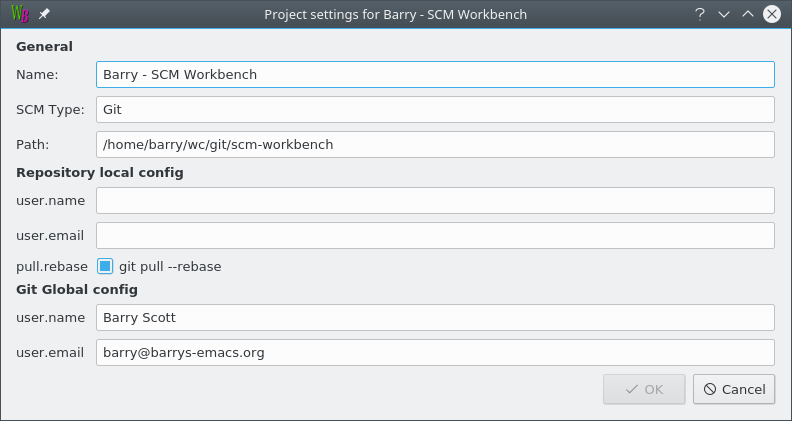
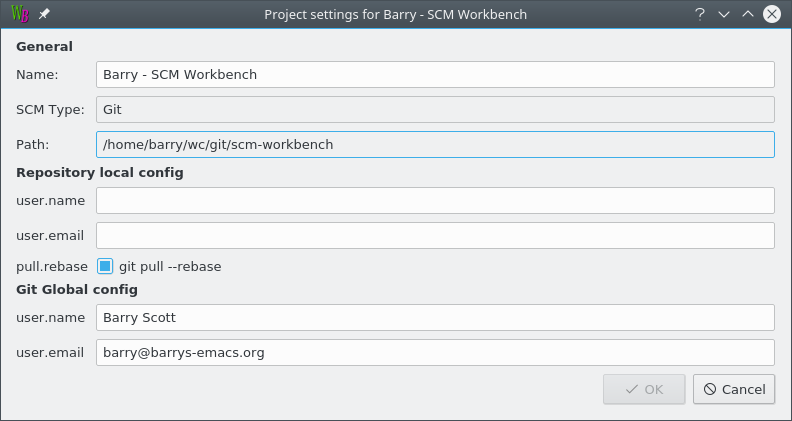
Add commit history documentation
add new screen shots to reflect project settings visual changes

make right-margin a bit wider

Changed region(s): [[0.1212, 0.3088, 0.1515, 0.3397], [0.1212, 0.1853, 0.1515, 0.2162]]

diff --git a/Docs/scm-workbench-git.html b/Docs/scm-workbench-git.html
@@ -34,6 +34,16 @@
     <figcaption>Git Project Settings</figcaption>
 </figure>
 
+<h3>Name</h3>
+
+<p>The name of the project can be changed by editing the "Name" field.
+You must pick a name that is not in use by another project.</p>
+
+<h3>Name and Email address for commits</h3>
+
+<p>Git needs your name and email address for each commit you make.</p>
+<p>The Git Global config user.name and user.email is used unless
+overridden by the Repository local config user.name and user.email.</p>
 
 <h2><a name="menus">Git Menus</a></h2>
 
@@ -62,6 +72,8 @@
     <tr><td><hr /></td></tr>
     <tr><td><a href="#git_action_rename">Rename…</a></td></tr>
     <tr><td><a href="#git_action_delete">Delete…</a></td></tr>
+    <tr><td><hr /></td></tr>
+    <tr><td><a href="#git_action_commit">Commit</a></td></tr>
     <tr><td><hr /></td></tr>
     <tr><td><a href="#git_action_push">Push</a></td></tr>
     <tr><td><a href="#git_action_pull">Pull</a></td></tr>
@@ -132,17 +144,47 @@ Select a log message to display the full log message and the changed paths.
 </p>
 
 <figure>
-    <img src="scm-workbench_files/wb_git_commit_log_window.png" />
-    <figcaption>Commit log Window</figcaption>
+    <img src="scm-workbench_files/wb_git_commit_history_window.png" />
+    <figcaption>Commit History Window</figcaption>
 </figure>
 
-<p>By selecting a single revision you can click the Diff button to view the
-differences between your copy of the file and the choosen revision.
+<h5>Exploring the history</h5>
+
+<p>By selecting a single commit you can click the Diff button to view the
+differences between your copy of the file and the choosen commit.
 </p>
 
-<p>By selecting two revisions you can click the Diff button to view the differences
-between the pair of selected revisitions.
+<p>By selecting two commits you can click the Diff button to view the differences
+between the pair of selected commits.
 </p>
+
+<p>By selecting a file in the CHanged Files list you can click the Diff button
+to show the differences in that one file for the selected commit.</p>
+
+<h5>Rebasing the commit history</h5>
+
+<p>Unpushed commits are drawing in <span style="color: rbg( 192, 0, 192 )">purple</span> and may be rebased.</p>
+
+<p>The rebase options are availble from the context menu (right-click menu).</p>
+
+<p>There are three rebase operations supported:</p>
+<ul>
+<li>Reword commit message - select one unpushed commit and choose this option.</li>
+<li>Squash commits together - select two or more consequtice commits and choose this option.</li>
+<li>Drop commit - select unpushed commits and choose this option.</li>
+</ul>
+
+<p>The Rebase dialog shows the rebase commands that will be executed.</p>
+
+<figure>
+    <img src="scm-workbench_files/wb_git_rebase_reword_dialog.png" />
+    <figcaption>Rebase reword dialog</figcaption>
+</figure>
+
+<p>For the Reword and Squash options a new commit message can be edited.</p>
+
+<p>If Git cannot perform the rebase the errors are shown in the main windows message
+panel and the errors are also shown in a pop up dialog.</p>
 
 <h3><a href="#menus">Menu:</a> <a name="menu_hg_actions">Git Actions</a></h3>
 
@@ -185,6 +227,20 @@ between the pair of selected revisitions.
 
 <p>A dialog pops up to confirm the deletion.
 </p>
+
+<h4><a name="git_action_commit">Commit</a></h4>
+
+<figure>
+    <img src="scm-workbench_files/wb_git_new_commit_window.png" />
+    <figcaption>New Commit Window</figcaption>
+</figure>
+
+<p>You can also use commands from this window like Edit, Open, Diff
+and Log History to confirm that the changes are as you expect and help
+you write a suitable log message.
+</p>
+
+<p>The commit will only be allowed if there are changes and the Commit Log Message is filled in.</p>
 
 <h4><a name="git_action_push">Push</a></h4>
 

diff --git a/Docs/scm-workbench-svn.html b/Docs/scm-workbench-svn.html
@@ -34,6 +34,13 @@
     <figcaption>Svn Project Settings</figcaption>
 </figure>
 
+<h3>Name</h3>
+
+<p>The name of the project can be changed by editing the "Name" field.
+You must pick a name that is not in use by another project.</p>
+
+<h3>Tag URL</h3>
+
 <p>SCM Workbench can optionally add the names of TAGs to the log history command output.
 Enable Tag URL and fill in the path to the tags URL for your repository.</p>
 
@@ -203,8 +210,8 @@ Select a commit message to display the full commit message and the changed paths
 </p>
 
 <figure>
-    <img src="scm-workbench_files/wb_svn_commit_log_window.png" />
-    <figcaption>Commit log Window</figcaption>
+    <img src="scm-workbench_files/wb_svn_commit_history_window.png" />
+    <figcaption>Commit history window</figcaption>
 </figure>
 
 <p>By selecting a single revision you can click the Diff button to view the
@@ -279,8 +286,21 @@ between the pair of selected revisitions.
 results in a Checkin Window.
 </p>
 
-<p>This is the same Checkin window is described that the Report Changes command creates.
+<figure>
+    <img src="scm-workbench_files/wb_svn_new_commit_window.png" />
+    <figcaption>Svn Check in Window</figcaption>
+</figure>
+
+<p>The Check in window allows you to commit the changes found.
 </p>
+
+<p>You can also use commands from this window like Edit, Open, Diff
+and Log History to confirm that the changes are as you expect and help
+you write a suitable log message.
+</p>
+
+<p>The commit will only be allowed if there are changes and the
+Commit Log Message is filled in.</p>
 
 <h4><a name="svn_action_update"><a href="#menus">Menu:</a> Svn Actions » Update</a></h4>
 
@@ -361,33 +381,6 @@ locks and display any found in a new window.
 <p>The Repository Lock Report window allows you to Lock and Unlock the files as
 well as a set of other useful commands. Use the toolbar buttons or Context-Menu to
 access commands.
-</p>
-
-<h4><a name="report_changes"><a href="#menus">Menu:</a> Reports » Changes…</a></h4>
-
-<p>Search the selected Working Copy folder and all its sub-folders for
-changes and display any found in a new window.
-</p>
-
-<figure>
-    <img src="scm-workbench_files/wb_svn_checkin_window.png" />
-    <figcaption>Svn Checking Window</figcaption>
-</figure>
-
-<p>The Check in window allows you to Check in the changes found to the repository.
-</p>
-
-<p>You can also use commands from this window like Diff, Properties, Annotate
-and Log History to confirm that the changes are as you expect and help
-you write a suitable log message.
-</p>
-
-<p>SCM Workbench remembers the last log message you entered and can insert it for
-you when you click the Insert Last Message button.
-</p>
-
-<p>Use the exclude button to exclude a file from being checked in. Use the include
-button to reverse an exclusion.
 </p>
 
 <h4><a name="report_updates"><a href="#menus">Menu:</a> Reports » Updates…</a></h4>

diff --git a/Docs/scm-workbench-hg.html b/Docs/scm-workbench-hg.html
@@ -34,6 +34,11 @@
     <figcaption>Hg Project Settings</figcaption>
 </figure>
 
+<h3>Name</h3>
+
+<p>The name of the project can be changed by editing the "Name" field.
+You must pick a name that is not in use by another project.</p>
+
 <h2><a name="menus">Hg Menus</a></h2>
 
 <figure>
@@ -49,7 +54,7 @@
     <tr><td><hr /></td></tr>
     <tr><td><a href="#hg_action_status">Status</a></td></tr>
     <tr><td><hr /></td></tr>
-    <tr><td><a href="#hg_action_commit_history…">Commit history</a></td></tr>
+    <tr><td><a href="#hg_action_commit_history">Commit history</a></td></tr>
     </table></div></td>
 <td valign="top">
     <div class="menu_dropdown">
@@ -59,7 +64,7 @@
     <tr><td><a href="#hg_action_revert">Revert…</a></td></tr>
     <tr><td><a href="#hg_action_delete">Delete…</a></td></tr>
     <tr><td><hr /></td></tr>
-    <tr><td><a href="#hg_action_commit">Commit…</a></td></tr>
+    <tr><td><a href="#hg_action_commit">Commit</a></td></tr>
     <tr><td><hr /></td></tr>
     <tr><td><a href="#hg_action_push">Push</a></td></tr>
     <tr><td><a href="#hg_action_pull">Pull</a></td></tr>
@@ -101,7 +106,7 @@ a file with the commit details.
 
 <p>Show the state of the local repository.</p>
 
-<h4><a name="hg_action_commit_history…">Commit history</a></h4>
+<h4><a name="hg_action_commit_history">Commit history</a></h4>
 
 <p>List the commit log of the selected files or folder. You can choose to
 show all the commit messages, the last few messages or the messages between some dates.
@@ -117,8 +122,8 @@ Select a log message to display the full log message and the changed paths.
 </p>
 
 <figure>
-    <img src="scm-workbench_files/wb_hg_commit_log_window.png" />
-    <figcaption>Commit log Window</figcaption>
+    <img src="scm-workbench_files/wb_hg_commit_history_window.png" />
+    <figcaption>Commit history window</figcaption>
 </figure>
 
 <p>By selecting a single revision you can click the Diff button to view the
@@ -158,14 +163,21 @@ between the pair of selected revisitions.
 <p>A dialog pops up to confirm the deletion.
 </p>
 
-<h4><a name="hg_action_commit">Commit…</a></h4>
+<h4><a name="hg_action_commit">Commit</a></h4>
 
 <p>Pop up the Commit Window which allows you to craft the commit.</p>
 
 <figure>
-    <img href="scm-workbench_files/wb_hg_commit_window.png" />
-    <figcaption>Hg Commit Window</figcaption>
+    <img src="scm-workbench_files/wb_hg_new_commit_window.png" />
+    <figcaption>New Commit Window</figcaption>
 </figure>
+
+<p>You can also use commands from this window like Edit, Open, Diff
+and Log History to confirm that the changes are as you expect and help
+you write a suitable log message.
+</p>
+
+<p>The commit will only be allowed if there are changes and the Commit Log Message is filled in.</p>
 
 <h4><a name="hg_action_push">Push</a></h4>
 

diff --git a/Docs/scm-workbench.css b/Docs/scm-workbench.css
@@ -9,7 +9,7 @@ h1 img
     {vertical-align: middle}
 
 h2, h3, h4
-    {color: #000099;	border-top: 1px solid grey;}
+    {color: #000099; border-top: 1px solid grey;}
 
 body
     {counter-reset: figcaption h2}
@@ -40,14 +40,19 @@ h2.nocount:before, h3.nocount:before, h4.nocount:before, h5.nocount:before, h6.n
     { content: ""; counter-increment: none } 
 
 p
-    { width: 40em; }
+    { width: 50em; }
 li
-    { width: 35em; }
+    { width: 45em}
 pre
     {color: #0000cc; background-color: #eeeeee; position: relative; left: 40px; margin-right: 80px;
 	border-style: solid; border-color: black; border-width: thin;}
 tt
     {color: #dd0000;}
+
+ul
+    { padding-left: 1em }
+ol
+    { padding-left: 1.5em }
 
 figcaption
     { font-family: sans-serif; font-size: smaller }
